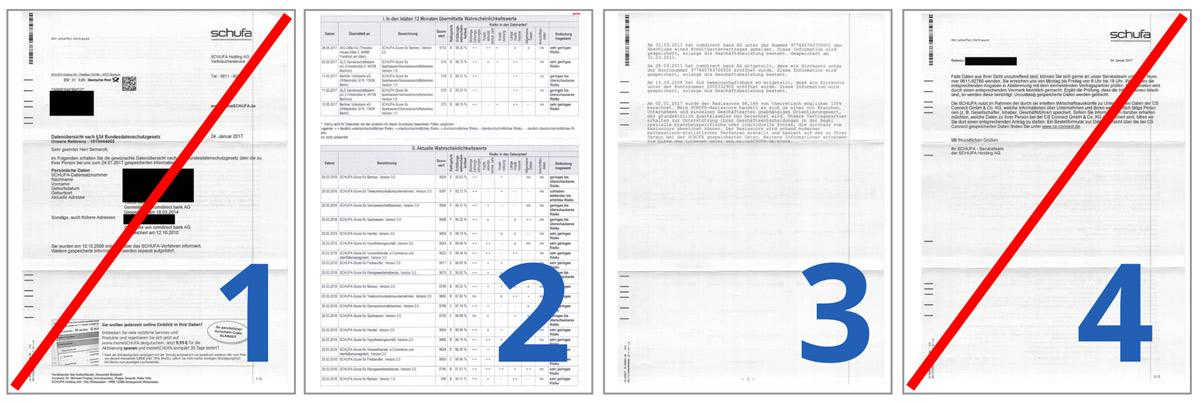
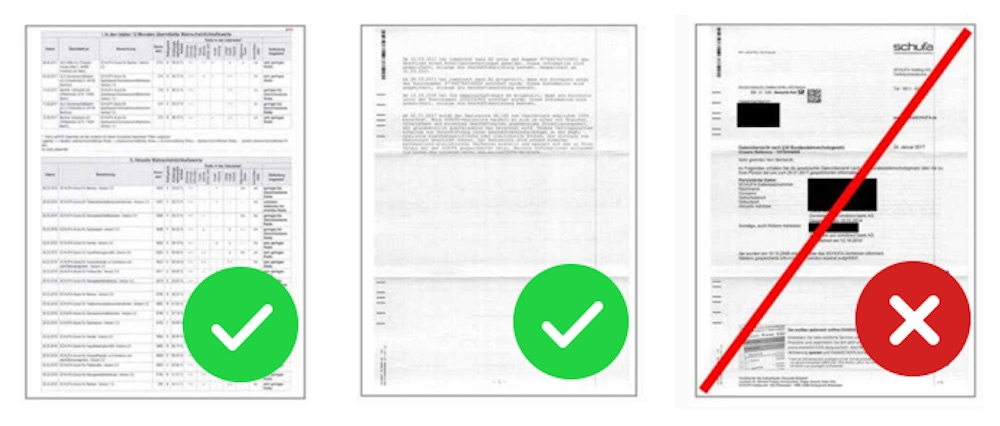
update usage picture

diff --git a/frontend/src/components/Usage/Usage.js b/frontend/src/components/Usage/Usage.js
@@ -3,7 +3,7 @@ import { FormattedMessage } from 'react-intl';
 import { withStyles } from 'material-ui/styles';
 import Paper from 'material-ui/Paper';
 import Typography from 'material-ui/Typography';
-import photo from '../../images/how_to_take_photo.jpg';
+import photo from '../../images/which_pages_to_take.jpg';
 import ProgressBar from '../ProgressBar';
 
 const styles = theme => ({
